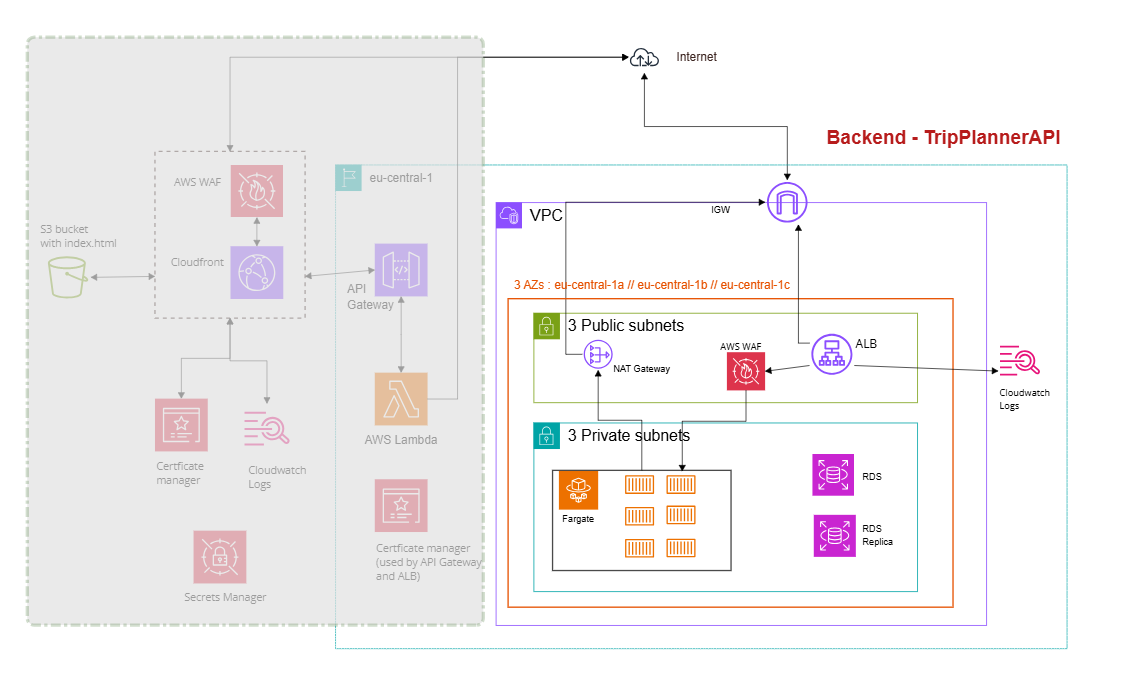
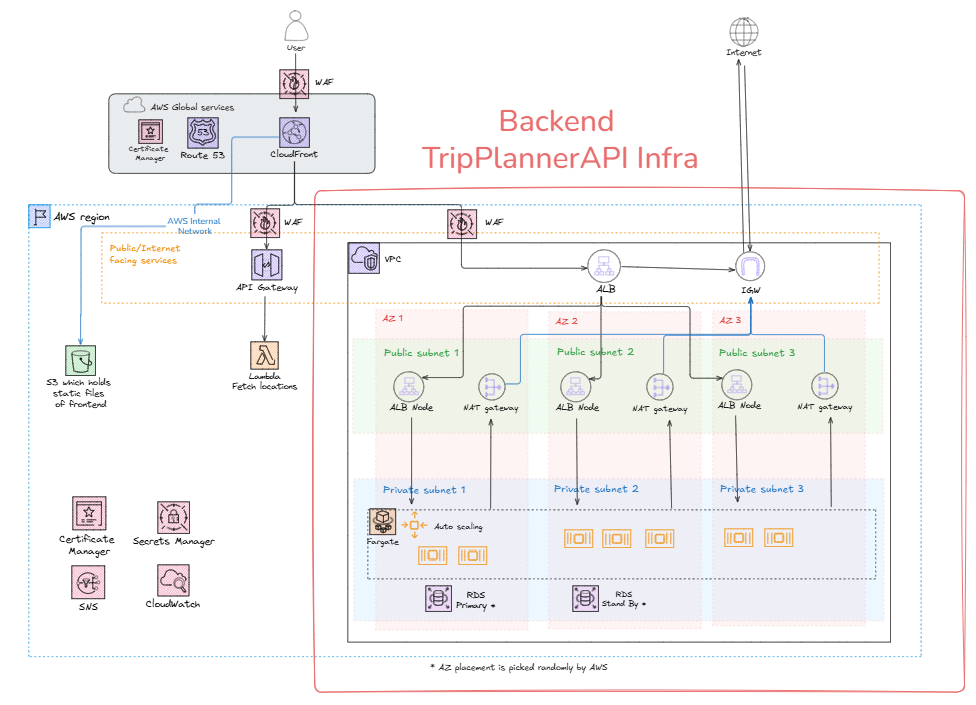
chore: updated DOCS

diff --git a/README.md b/README.md
@@ -1,0 +1,161 @@
+# Trip Planner Infrastructure - managed with Terraform on AWS
+
+# Table of Contents
+- [Backend Infrastructure (TripPlannerAPI)](#backend-infrastructure-tripplannerapi)
+    - [Overview](#overview)
+    - [Key Attributes](#key-attributes)
+    - [Gotchas & Lessons Learned](#-gotchas---lessons-learned-sometimes-the-hard-way)
+- [Locations API (AWS Lambda + API Gateway)](#locations-api-aws-lambda--api-gateway)
+    - [Overview](#overview-1)
+    - [Key Attributes](#key-attributes-1)
+    - [Environment Variables & Secret API Key](#env-variables-and-secret-api-key)
+    - [API Usage](#api-usage)
+    - [Gotchas & Notes](#-gotchas---lessons-learned-sometimes-the-hard-way-1)
+- [Frontend - Trip Planner Web App](#frontend---trip-planner-web-app)
+    - [Overview](#overview-2)
+    - [Key Attributes](#key-attributes-2)
+        - [Security](#security)
+        - [Maintainability](#maintainability)
+        - [Scalability](#scalability)
+        - [Reliability](#reliability)
+    - [Gotchas & Notes](#-gotcha---notes)
+
+
+# Overview
+This repository manages the infrastructure for the Trip Planner application using **Terraform** on **AWS**.
+
+The application includes:
+- Backend API (Fargate on ECS + RDS)
+- Locations API (Lambda + API Gateway)
+- Frontend Web App (S3 + CloudFront)
+
+The architecture is designed to be **robust, secure, and scalable**, leveraging AWS managed services 
+to reduce operational overhead.
+
+## Architecture
+
+<img src="docs/full-diagram-v2.png" alt="trip-planner-infrastructure-v2">
+
+# Backend infrastructure (TripPlannerAPI)
+## Overview
+The backend of *Trip Planner* is a **Spring Boot application** which provides CRUD operations for trip data.
+
+<img src="docs/backend-diagram.png" alt="trip-planner-backend-api-infra">
+
+## Key Attributes
+
+**Maintainability**
+- Runs as **Docker containers on AWS Fargate**, removing the need to manage EC2 instances.
+
+**Scalability**
+- ECS Service manages container count automatically as traffic grows.
+
+**Security**
+- ECS tasks and RDS run in **private subnets** inside a dedicated VPC.
+- **Application Load Balancer (ALB)** routes traffic from public to private subnets.
+- **AWS WAF** is tied to the ALB to protect against common web attacks.
+- Secrets are stored securely in **AWS Secrets Manager**.
+
+**Monitoring**
+- ECS logs are streamed to **AWS CloudWatch Logs** for real-time monitoring and troubleshooting.
+- **AWS CloudWatch Alarms + SNS** are set up to monitor :
+    - ECS service :
+        - Alert when ECS CPU utilization exceeds 90%
+        - Alert when ECS Memory utilization exceeds 90%
+        - Alert when ECS service has unhealthy tasks
+    - RDS database :
+        - Alert when RDS free storage space is low
+        - Alert when DB has CPU utilization of 0% for 5 minutes - RDS is potentially down
+    - ALB :
+        - ALB target group has unhealthy hosts
+        - Alert when ALB has too many 5xx errors
+        - Alert when ALB has high latency (over 2 seconds)
+
+## 🔍 Gotchas
+### RDS - Database
+- *Database Password is fully managed by RDS*: Check this under DB Instance > Configuration > Master credentials ARN.
+    - Even though a custom password is provided, RDS will generate a new password (cannot be overriden) and this **password is automatically rotated by RDS**.
+    - On first creation of the database, you will have to manually update the variable for the database password in Secret Manager (the one which ECS task uses to connect to the database)
+- *RDS Subnet Requirement:* RDS in production mode requires at least two subnets in different availability zones to 
+enable high availability. If you only provide one, deployment will fail silently or behave unexpectedly.
+- *Database Connectivity Doesn't Show Up in RDS UI:* The “connected compute resources” in the RDS console is not 
+always accurate for ECS or non-EC2 clients. Don’t rely on it to debug connectivity.
+
+### ALB
+- *Target Group Unhealthy == No Traffic:* If your ECS container is running but your ALB Target Group is showing “unhealthy” targets, the ALB will not forward traffic. This is typically caused by:
+    - Wrong health check path (e.g., / vs /actuator/health)
+    - Port mismatch (container not listening on the expected port)
+    - Network/security group misconfig
+- *504 Gateway Timeout ≠ Network Issue:* A 504 from the Load Balancer often just means the ECS container failed to start up fully or didn't bind to the correct port (e.g., 8080). Check that your application is actually listening on the port expected by the ALB Target Group.
+
+### ECS
+- *ECS Container Start = Slower Than Expected:* Don't expect ECS Fargate to start containers instantly. Between image pulling, network setup, and health checks, startup can take 1–2+ minutes.
+
+### Secrets Manager
+- *SecretsManager ≠ Instant Fix:* Referencing secrets inside ECS task definitions must follow exact syntax (valueFrom must use the full ARN or proper SecretsManager parameter name). Mismatched names will cause cryptic errors.
+
+### Terraform
+- *Security Group Deletion Blocked:* Terraform cannot delete a security group if it's still attached to active resources (like ECS, ALB, or RDS) — even if the plan shows successful validation. This can stall terraform destroy for several minutes.
+- *Terraform Ordering Matters:* Ensure ECS services depend on RDS or networking modules (depends_on), otherwise containers may try to start before the DB is available.
+
+# Locations API
+
+## Overview
+
+[Trip planner web app](https://github.com/lrasata/trip-planner-web-app) is using [Geo DB API](https://rapidapi.com/wirefreethought/api/geodb-cities)
+to fetch data related to cities and countries.
+
+To be able to deploy [Trip planner web app](https://github.com/lrasata/trip-planner-web-app)
+(React + TypeScript web app) securely on S3 + CloudFront, it must provide a secret `API_KEY` in the header of an authenticated request.
+
+But the challenge is to inject secrets securely in a React + Vite app, secrets must be separated from
+the frontend and a backend must be used to access them. **There is no secure way to keep a secret in a public browser app.**
+
+`Locations API` has been created to provide an API endpoint to call for the frontend without requiring any secrets. 
+Those components provide a secure serverless API for accessing location data, powered by AWS Lambda and API Gateway.
+
+<img src="./docs/locations-api.png" alt="location-api-diagram">
+
+> Refer to the [Locations API repository](https://github.com/lrasata/locations-api) for full details
+
+# Frontend - Trip planner web app
+
+## Overview
+This part of the infrastructure sets up an AWS **CloudFront distribution** to serve a **Single Page Application (SPA)** 
+from an **S3 bucket**, using **Lambda@Edge** to handle routing for client-side routes. It ensures that all SPA routes 
+return `index.html` while keeping the S3 bucket secure and private.
+
+<img src="docs/frontend-diagram.png" alt="trip-planner-frontend-infra">
+
+## Key Attributes
+**Security**
+- S3 bucket blocks all public access.
+- CloudFront Origin Access Control (OAC) ensures only CloudFront can access the S3 bucket.
+- Lambda@Edge uses minimal IAM permissions via `AWSLambdaBasicExecutionRole`.
+- Custom header : `API_GW_LOCATIONS_AUTH_SECRET` is injected by CloudFront to securely communicate with `LocationsAPI`.
+
+**Maintainability**
+- Lambda@Edge centralizes route handling for SPA, reducing manual S3 configuration.
+
+**Scalability**
+- **CloudFront CDN** caches content globally, reducing latency and improving user experience.
+- Static content served from S3 scales automatically with traffic.
+- Lambda@Edge executes at edge locations, distributing the load worldwide.
+
+**Reliability**
+- CloudFront + S3 + Lambda@Edge provides high availability and low downtime.
+- HTTPS is enabled with ACM certificates, ensuring secure and reliable access.
+
+**Monitoring**
+- **AWS CloudWatch Alarms + SNS** are set up to monitor :
+    - Cloudfront distribution :
+        - Alert when CloudFront has too many 5xx errors
+
+## 🔎 Gotchas
+- Build the frontend with `npm run build` and sync the `./dist` folder to S3 before deployment.
+- Lambda@Edge must be deployed in `us-east-1`, the only region supporting it.
+- ACM certificates for HTTPS for CloudFront must also be requested in `us-east-1`.
+- SPA must use the CloudFront URL as the API endpoint to allow CloudFront to inject the required custom header for API Gateway:
+    - Correct: `VITE_API_LOCATIONS=https://epic-trip-planner.com/locations`
+    - Incorrect: `VITE_API_LOCATIONS=https://api-locations.epic-trip-planner.com/locations` - 
+hitting the API Gateway directly will not work as it does not inject the custom header required by the API Gateway.

diff --git a/DEVELOPMENT.md b/DEVELOPMENT.md
@@ -14,7 +14,7 @@
      - GEO_DB_RAPID_API_KEY : RapidAPI key for GeoDB
      - API_GW_LOCATIONS_AUTH_SECRET : Secret value of header `x-api-gateway-locations-auth` to request data from LocationsAPI
      - API_GW_IMG_UPLOAD_AUTH_SECRET : Secret value of header `x-api-gateway-img-upload-auth` to request presigned url for image upload
-4. Build folder `dist/` is copied in the root of the project, it contains the **compiled frontend application (trip-planner-web-app).**
+4. The **Trip-planner-web-app** has been built and synced with the s3 bucket by the [CI/CD pipeline](https://github.com/lrasata/trip-planner-web-app/actions/workflows/release.yml:
    - Trip-planner-web-app has been built with correct environment variables set:
      - VITE_API_URL: e.g. `VITE_API_URL=https://staging-alb.epic-trip-planner.com`
      - VITE_API_LOCATIONS: e.g. `VITE_API_LOCATIONS=https://staging.epic-trip-planner.com/locations`
